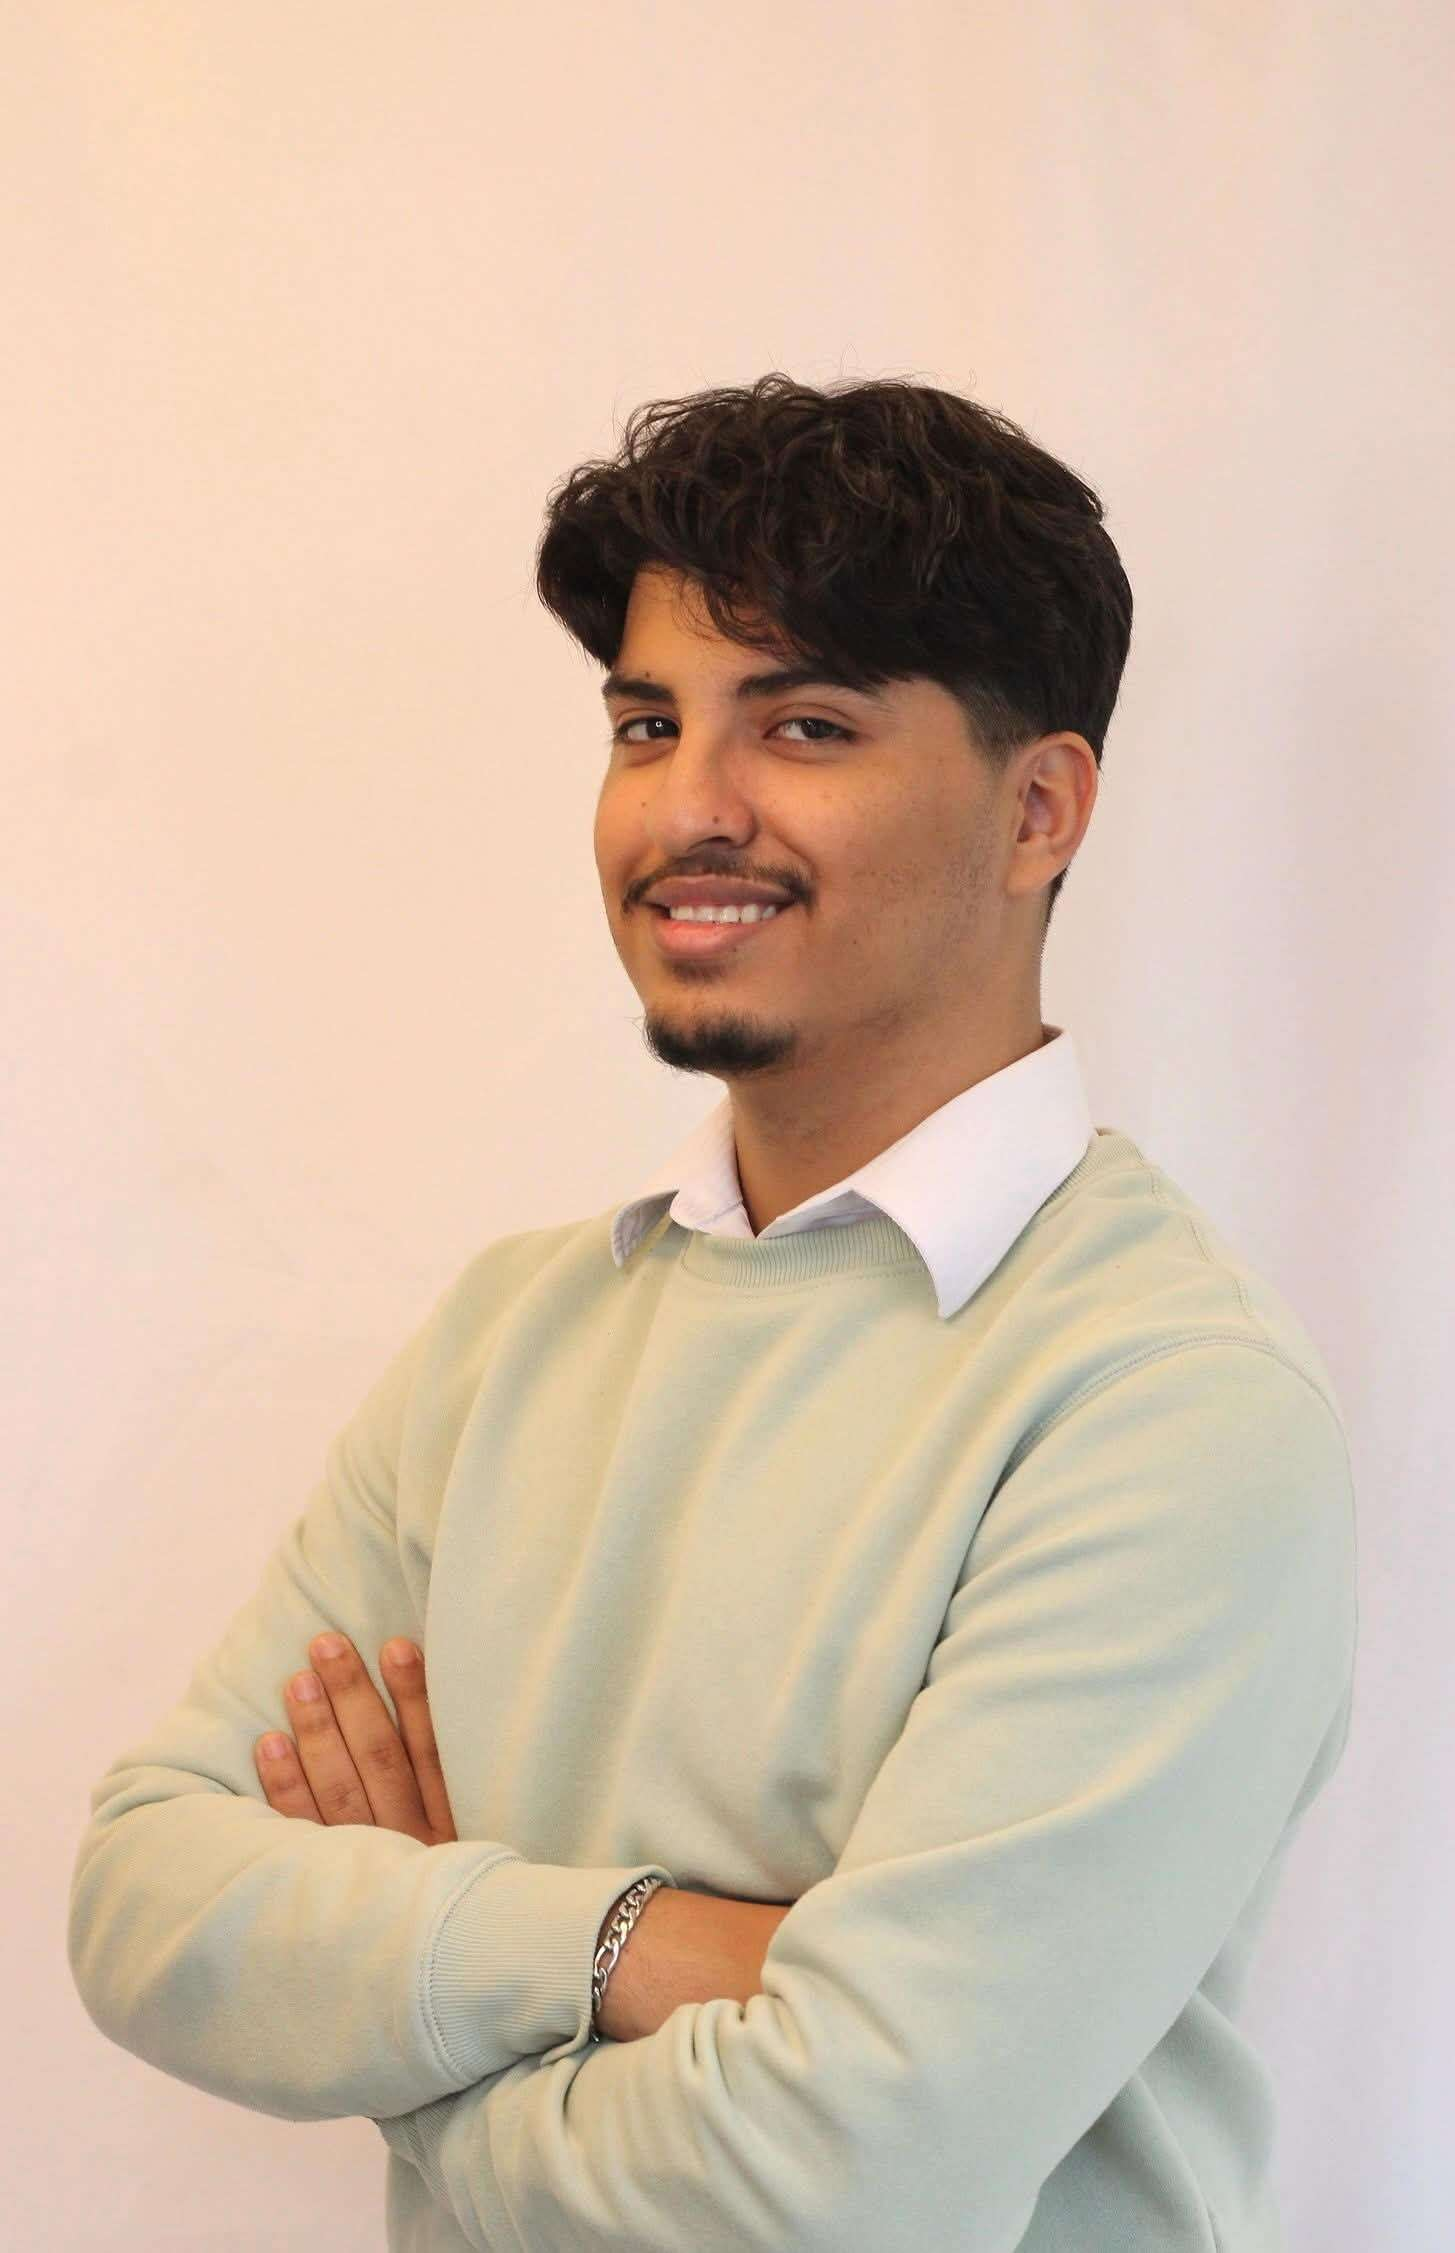
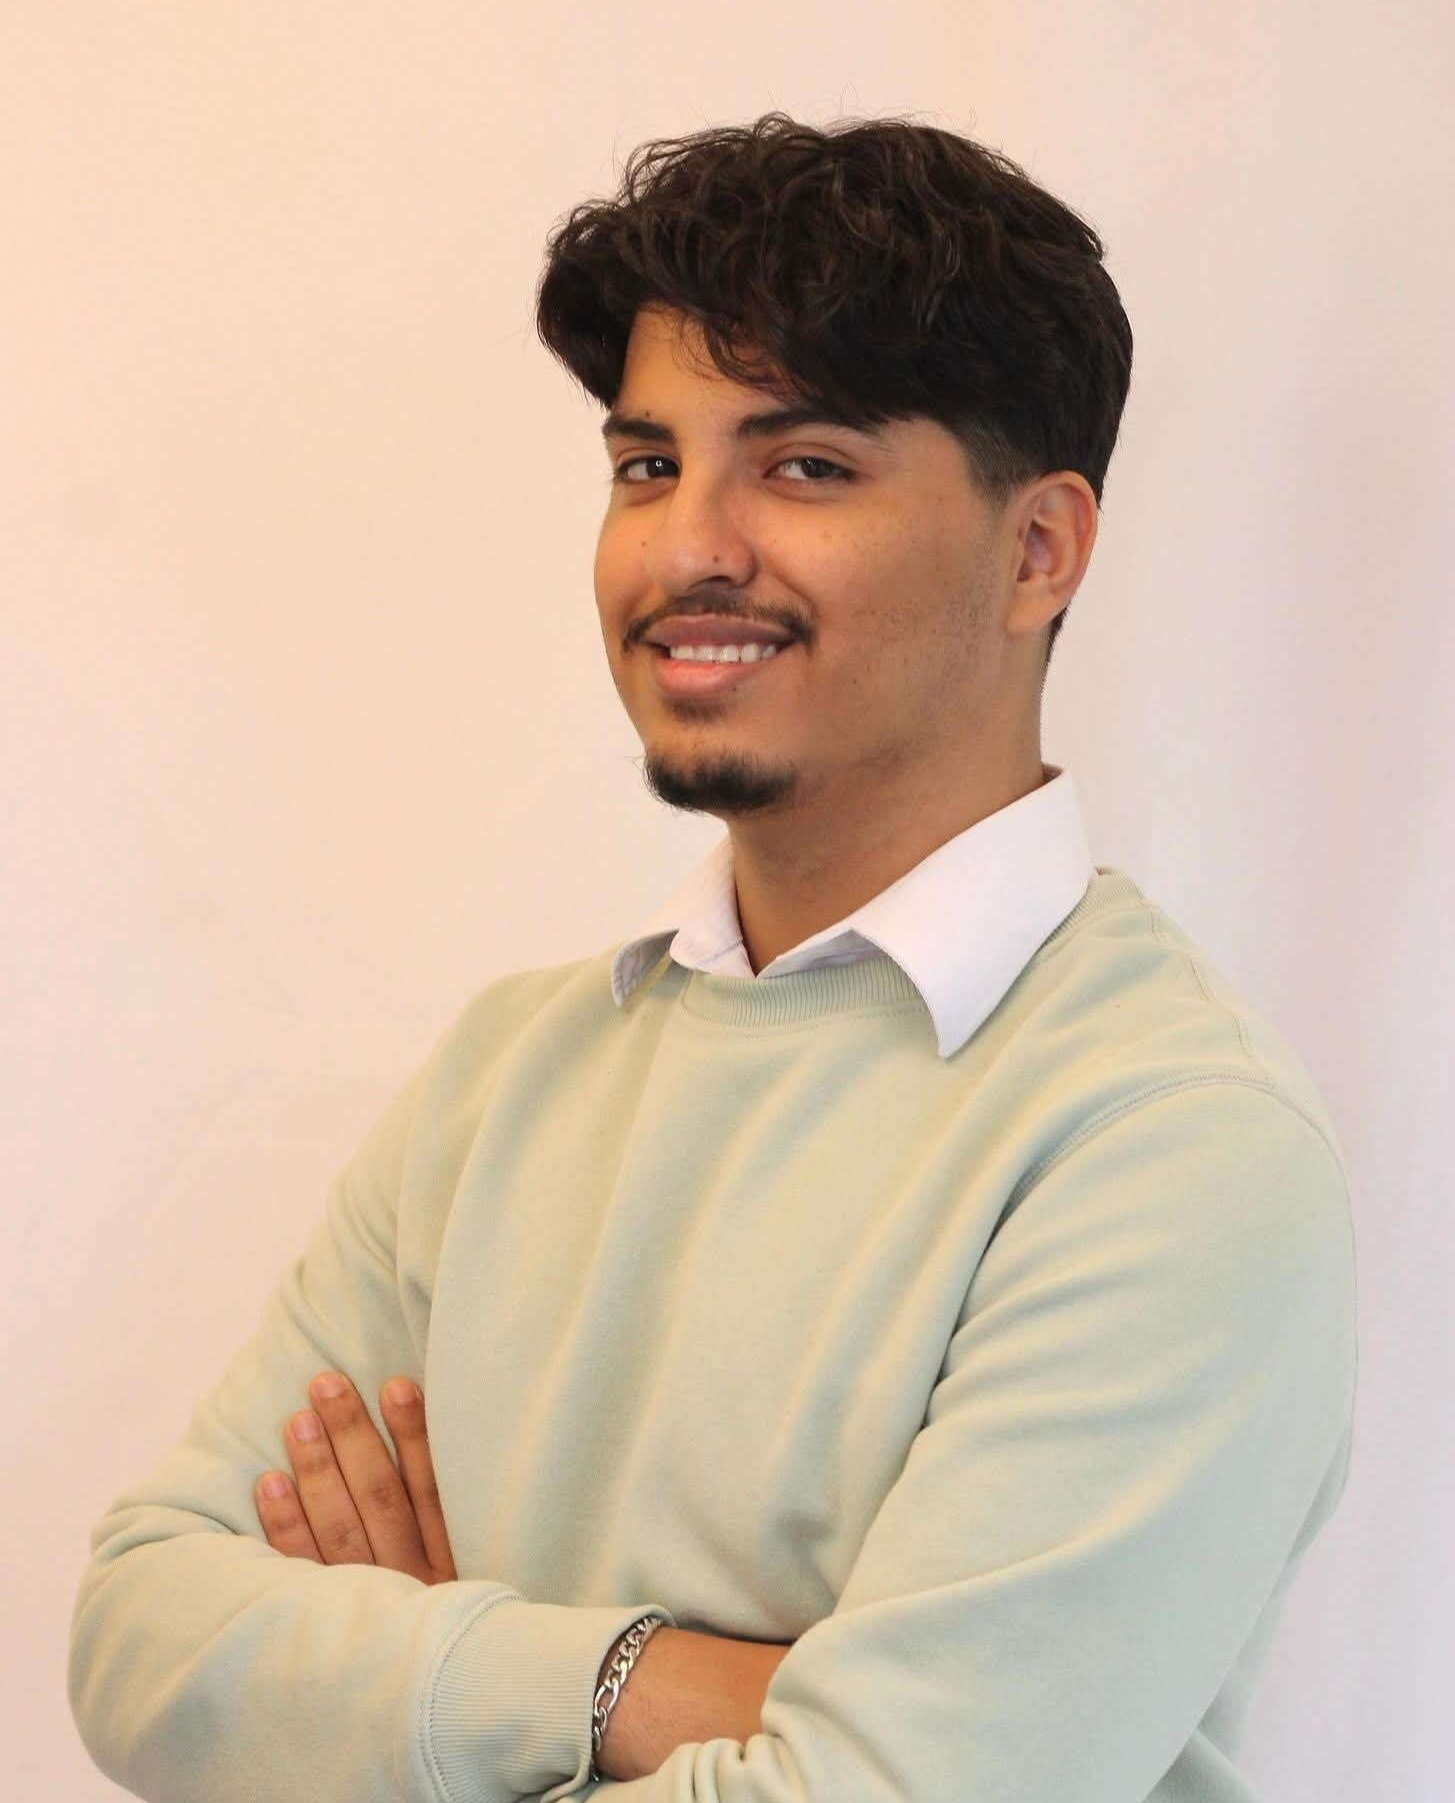
adding headshots

diff --git a/app/about/page.tsx b/app/about/page.tsx
@@ -9,7 +9,7 @@ const teamMembers = [
   { name: "Gregory McKay", role: "VP Financial Affairs" },
   { name: "Abbas Al-Sharoot", role: "VP Communications", photoSrc: "/headshots/Abbas.jpg" },
   { name: "Royce Demanou Tajo", role: "VP Technology", photoSrc: "/headshots/Royce.png" },
-  { name: "Tiya Persaud", role: "Marketing Team" },
+  { name: "Tiya Persaud", role: "Marketing Team", photoSrc: "/headshots/tiya.jpg" },
   { name: "Mitchell Bravo", role: "Marketing Team", photoSrc: "/headshots/Mitchell.png" },
   { name: "Benjamin Probert", role: "Marketing Team" },
   { name: "Stephanie Corbu", role: "Technology Team" },
